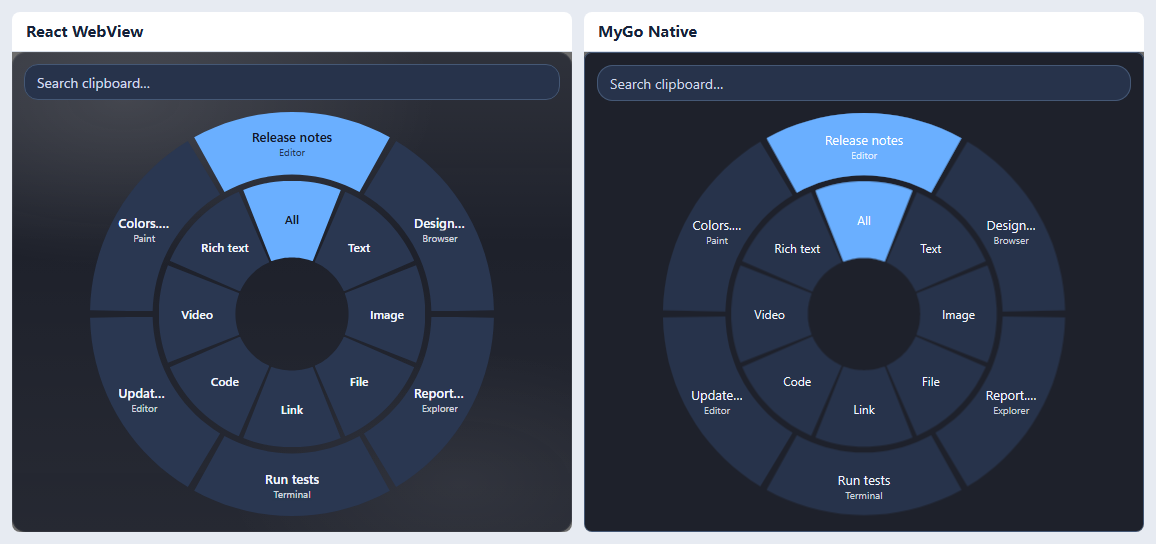
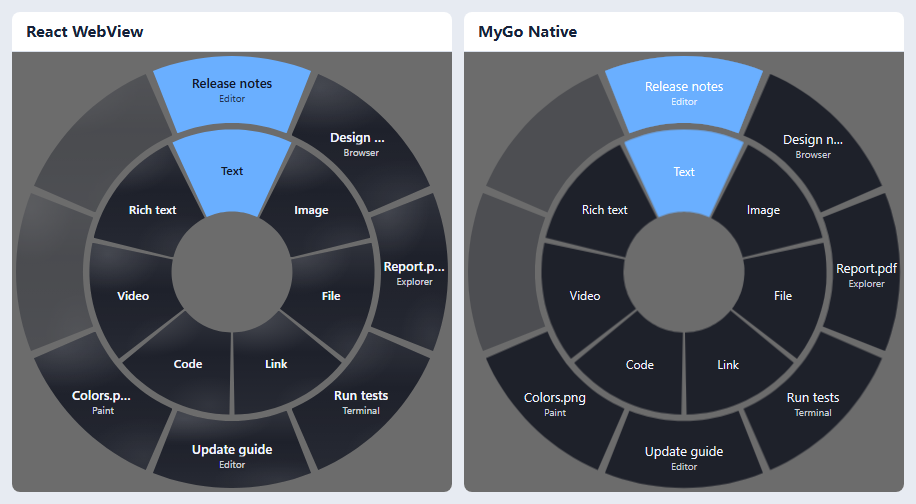
feat: render configurable quick paste rings without a panel

diff --git a/packages/ui-react/src/components/QuickPasteRings.tsx b/packages/ui-react/src/components/QuickPasteRings.tsx
@@ -1,7 +1,7 @@
 import { useLayoutEffect, useRef, useState } from "react";
 import "../styles/components/quick-paste-rings.css";
 
-export type QuickPasteDock = "left" | "right" | "";
+export type QuickPasteDock = "left" | "right" | "top" | "";
 
 interface RingItem {
     id: string | number;
@@ -19,18 +19,19 @@ interface QuickPasteRingsProps {
     entries: RingItem[];
     categoryLabel: string;
     entryLabel: string;
-    emptyLabel?: string;
+    entrySlots: number;
 }
 
 function ringSector(index: number, count: number, outer: boolean, dock: QuickPasteDock, width: number, height: number) {
-    const radius = Math.max(0, Math.min(height / 2 - 4, dock ? width - 8 : width / 2 - 4));
+    const horizontal = dock === "left" || dock === "right";
+    const radius = Math.max(0, Math.min(dock === "top" ? height - 4 : height / 2 - 4, horizontal ? width - 4 : width / 2 - 4));
     const cx = dock === "left" ? 0 : dock === "right" ? width : width / 2;
-    const cy = height / 2;
-    const direction = dock === "right" ? -1 : 1;
+    const cy = dock === "top" ? 0 : height / 2;
+    const direction = dock === "right" || dock === "top" ? -1 : 1;
     const inner = radius * (outer ? .69 : .28);
     const edge = radius * (outer ? 1 : .66);
     const step = (dock ? Math.PI : 2 * Math.PI) / count;
-    const middle = -Math.PI / 2 + step * (index + (dock ? .5 : 0));
+    const middle = (dock === "top" ? 0 : -Math.PI / 2) + step * (index + (dock ? .5 : 0));
     const halfAngle = step / 2 - .018;
     const point = (r: number, angle: number) => ({
         x: cx + direction * r * Math.cos(angle),
@@ -67,7 +68,7 @@ function ringSector(index: number, count: number, outer: boolean, dock: QuickPas
     };
 }
 
-export function QuickPasteRings({ dock, categories, entries, categoryLabel, entryLabel, emptyLabel }: QuickPasteRingsProps) {
+export function QuickPasteRings({ dock, categories, entries, categoryLabel, entryLabel, entrySlots }: QuickPasteRingsProps) {
     const view = useRef<HTMLDivElement>(null);
     const [size, setSize] = useState({ width: 0, height: 0 });
     useLayoutEffect(() => {
@@ -100,8 +101,7 @@ export function QuickPasteRings({ dock, categories, entries, categoryLabel, entr
     return <div ref={view} className={"quick-paste-ring" + (dock ? " quick-paste-ring--" + dock : "")}>
         {size.width > 0 && size.height > 0 && <>
             <div role="group" aria-label={categoryLabel}>{renderRing(categories, categories.length, false)}</div>
-            <div role="group" aria-label={entryLabel}>{renderRing(entries, 6, true)}</div>
+            <div role="group" aria-label={entryLabel}>{renderRing(entries, entrySlots, true)}</div>
         </>}
-        {entries.length === 0 && emptyLabel && <span className="quick-paste-ring__empty">{emptyLabel}</span>}
     </div>;
 }

diff --git a/packages/ui-react/showcase/main.tsx b/packages/ui-react/showcase/main.tsx
@@ -441,19 +441,19 @@ function CharacterPanelFixture() {
 }
 
 function QuickPasteFixture() {
-  const [category, setCategory] = useState("All");
+  const [category, setCategory] = useState("Text");
   const [entry, setEntry] = useState("Release notes");
   const ring = fixture === "quick-paste-rings";
-  const dock = state === "left" || state === "right" ? state : "";
+  const dock = state === "left" || state === "right" || state === "top" ? state : "";
   const ringEntries = [
     ["Release notes", "Editor"], ["Design notes", "Browser"], ["Report.pdf", "Explorer"],
     ["Run tests", "Terminal"], ["Update guide", "Editor"], ["Colors.png", "Paint"],
   ];
   return <main data-fixture={fixture}>
-    <QuickPastePanel>
-      <QuickPasteSearch aria-label="Search clipboard" placeholder="Search clipboard…" />
-      {ring && <QuickPasteRings dock={dock} categoryLabel="Clipboard types" entryLabel="Clipboard entries"
-        categories={["All", "Text", "Image", "File", "Link", "Code", "Video", "Rich text"]
+    <QuickPastePanel className={ring ? "quick-paste-window--rings" : undefined}>
+      {!ring && <QuickPasteSearch aria-label="Search clipboard" placeholder="Search clipboard…" />}
+      {ring && <QuickPasteRings dock={dock} entrySlots={dock ? 5 : 8} categoryLabel="Clipboard types" entryLabel="Clipboard entries"
+        categories={["Text", "Image", "File", "Link", "Code", "Video", "Rich text"]
           .map(label => ({ id: label, label, compactLabel: ({ Image: "Img", Video: "Vid", "Rich text": "Rich" } as Record<string, string>)[label],
             active: label === category, onSelect: () => setCategory(label) }))}
         entries={ringEntries.map(([label, detail]) => ({ id: label, label, detail, active: label === entry,

diff --git a/packages/ui-react/src/styles/components/quick-paste-rings.css b/packages/ui-react/src/styles/components/quick-paste-rings.css
@@ -12,12 +12,12 @@
     border-radius: 0;
     padding: 0;
     color: var(--dc-text-primary);
-    background: var(--dc-surface-raised);
+    background: var(--floating-texture), var(--floating-fill);
     font: 600 13px var(--dc-font-ui);
 }
 
 .quick-paste-ring__empty-sector {
-    background: color-mix(in srgb, var(--dc-surface-raised) 45%, transparent);
+    opacity: .42;
     pointer-events: none;
 }
 
@@ -56,22 +56,8 @@
 }
 
 .quick-paste-ring button.quick-paste-ring__category { font-size: 12px; }
-.quick-paste-ring:is(.quick-paste-ring--left, .quick-paste-ring--right) .quick-paste-ring__category { font-size: 10px; }
+.quick-paste-ring:is(.quick-paste-ring--left, .quick-paste-ring--right, .quick-paste-ring--top) .quick-paste-ring__category { font-size: 10px; }
 .quick-paste-ring__label small { opacity: .82; font-size: 10px; font-weight: 400; }
-
-.quick-paste-ring__empty {
-    position: absolute;
-    left: 50%;
-    top: 50%;
-    max-width: 96px;
-    transform: translate(-50%, -50%);
-    color: var(--dc-text-secondary);
-    text-align: center;
-    font-size: 11px;
-    pointer-events: none;
-}
-.quick-paste-ring--left .quick-paste-ring__empty { left: 0; width: 48px; transform: translateY(-50%); }
-.quick-paste-ring--right .quick-paste-ring__empty { left: auto; right: 0; width: 48px; transform: translateY(-50%); }
 
 @media (prefers-reduced-motion: reduce) {
     .quick-paste-ring button { transition: none; }

diff --git a/packages/ui-react/src/styles/components/QuickPasteWindow.css b/packages/ui-react/src/styles/components/QuickPasteWindow.css
@@ -47,6 +47,14 @@ html body.quick-paste #root:has(.quick-paste-window)::before {
   box-sizing: border-box;
 }
 
+.quick-paste-window--rings {
+  --quick-paste-panel-radius: 0px;
+  padding: 0;
+  gap: 0;
+  background: none;
+  box-shadow: none;
+}
+
 /* ── Search ─────────────────────────────────────────────────── */
 
 .quick-paste-window__search-input {

diff --git a/packages/ui-react/src/styles/components/floating-shell.css b/packages/ui-react/src/styles/components/floating-shell.css
@@ -13,7 +13,7 @@
 }
 
 @supports (opacity: pow(.5, 2)) {
-    :root.windows-11 :is(.theme-mica, .theme-acrylic) :is(.quick-paste-window, .compact-preview-window) {
+    :root.windows-11 :is(.theme-mica, .theme-acrylic) :is(.quick-paste-window:not(.quick-paste-window--rings), .compact-preview-window) {
         --floating-fill: rgb(var(--surface-shell-rgb) / pow(var(--floating-opacity), var(--system-backdrop-tint-power)));
     }
 }

diff --git a/packages/ui-native/uikit/quick_paste_rings.go b/packages/ui-native/uikit/quick_paste_rings.go
@@ -22,7 +22,7 @@ type quickPasteSector struct {
 
 // QuickPasteRings draws an inner category ring and six outer entry sectors.
 // At either edge, the same controls occupy an inward-facing half circle.
-func (k Kit) QuickPasteRings(c *ui.Context, dock string, categories, entries []QuickPasteRingItem) {
+func (k Kit) QuickPasteRings(c *ui.Context, dock string, slots int, tint ui.Color, categories, entries []QuickPasteRingItem) {
 	ring := ui.Box(c).FillWidth().Grow(1).MinHeight(0).Clip()
 	size := ring.Bounds()
 	ring.Draw(func(_ *ui.Painter, bounds ui.Rect) {
@@ -34,12 +34,12 @@ func (k Kit) QuickPasteRings(c *ui.Context, dock string, categories, entries []Q
 		return
 	}
 	ring.Children(func() {
-		k.quickPasteRing(c, dock, size, categories, len(categories), false)
-		k.quickPasteRing(c, dock, size, entries, 6, true)
+		k.quickPasteRing(c, dock, size, tint, categories, len(categories), false)
+		k.quickPasteRing(c, dock, size, tint, entries, slots, true)
 	})
 }
 
-func (k Kit) quickPasteRing(c *ui.Context, dock string, size ui.Rect, items []QuickPasteRingItem, count int, outer bool) {
+func (k Kit) quickPasteRing(c *ui.Context, dock string, size ui.Rect, tint ui.Color, items []QuickPasteRingItem, count int, outer bool) {
 	palette := c.Theme()
 	for index := range count {
 		sector := makeQuickPasteSector(index, count, outer, dock, size.W, size.H)
@@ -47,7 +47,7 @@ func (k Kit) quickPasteRing(c *ui.Context, dock string, size ui.Rect, items []Qu
 		if index >= len(items) {
 			ui.Box(c.Key(index)).Absolute().Left(bounds.X).Top(bounds.Y).Size(bounds.W, bounds.H).
 				PassThrough().Draw(func(p *ui.Painter, rect ui.Rect) {
-				drawQuickPasteSector(p, rect, sector, palette.Surface.Alpha(.45))
+				drawQuickPasteSector(p, rect, sector, tint.Alpha(float32(tint.A)*.42/255))
 			})
 			continue
 		}
@@ -62,7 +62,7 @@ func (k Kit) quickPasteRing(c *ui.Context, dock string, size ui.Rect, items []Qu
 			HitTest(func(x, y float32, rect ui.Rect) bool {
 				return sector.path.Contains(x-rect.X, y-rect.Y)
 			})
-		fill, text := palette.Surface, palette.Text
+		fill, text := tint, palette.Text
 		if item.Active {
 			fill, text = palette.Accent, palette.AccentText
 		} else if button.Hovered() || button.Focused() {
@@ -108,8 +108,12 @@ func drawQuickPasteSector(p *ui.Painter, rect ui.Rect, sector quickPasteSector, 
 func makeQuickPasteSector(index, count int, outer bool, dock string, width, height float32) quickPasteSector {
 	radius := max(0, min(float64(height)/2-4, float64(width)/2-4))
 	cx, cy := float64(width)/2, float64(height)/2
-	direction, span, offset := 1.0, 2*math.Pi, 0.0
-	if dock != "" {
+	direction, span, offset, start := 1.0, 2*math.Pi, 0.0, -math.Pi/2
+	switch dock {
+	case "top":
+		radius = max(0, min(float64(height)-4, float64(width)/2-4))
+		cy, direction, span, offset, start = 0, -1, math.Pi, .5, 0
+	case "left", "right":
 		radius = max(0, min(float64(height)/2-4, float64(width)-8))
 		cx, span, offset = 0, math.Pi, .5
 		if dock == "right" {
@@ -123,7 +127,7 @@ func makeQuickPasteSector(index, count int, outer bool, dock string, width, heig
 		halfWidth, halfHeight = 54, 12
 	}
 	step := span / float64(count)
-	middle := -math.Pi/2 + step*(float64(index)+offset)
+	middle := start + step*(float64(index)+offset)
 	halfAngle := step/2 - .018
 	point := func(r, angle float64) ui.Point {
 		return ui.Point{X: float32(cx + direction*r*math.Cos(angle)), Y: float32(cy + r*math.Sin(angle))}

diff --git a/packages/ui-presets/cmd/dzc-ui-gallery/quick_paste_fixture.go b/packages/ui-presets/cmd/dzc-ui-gallery/quick_paste_fixture.go
@@ -18,12 +18,12 @@ func (g *gallery) quickPasteFixture(c *ui.Context, preset presets.Preset) {
 	palette := *c.Theme()
 	palette.Background = ui.Hex("#6c6c6c")
 	c.SetTheme(&palette)
+	if g.fixture == "quick-paste-rings" {
+		g.quickPasteRingFixture(c, kit, preset.WindowBackground(94))
+		return
+	}
 	kit.QuickPastePanel(c, preset.WindowBackground(100).Alpha(float32(opacity)/100)).Children(func() {
 		kit.QuickPasteSearch(c, &g.query, "Search clipboard…")
-		if g.fixture == "quick-paste-rings" {
-			g.quickPasteRingFixture(c, kit)
-			return
-		}
 		ui.Column(c).FillWidth().Children(func() {
 			kit.QuickPasteRow(c, "Release checklist", "Editor", true)
 			kit.QuickPasteRow(c, "Design notes", "Browser", false)
@@ -32,14 +32,13 @@ func (g *gallery) quickPasteFixture(c *ui.Context, preset presets.Preset) {
 	})
 }
 
-func (g *gallery) quickPasteRingFixture(c *ui.Context, kit uikit.Kit) {
+func (g *gallery) quickPasteRingFixture(c *ui.Context, kit uikit.Kit, tint ui.Color) {
 	dock := g.state
 	if dock == "full" {
 		dock = ""
 	}
 	categories := []uikit.QuickPasteRingItem{
-		{Key: "all", Label: "All", Active: true},
-		{Key: "text", Label: "Text"},
+		{Key: "text", Label: "Text", Active: true},
 		{Key: "image", Label: "Image", CompactLabel: "Img"},
 		{Key: "file", Label: "File"},
 		{Key: "link", Label: "Link"},
@@ -55,5 +54,9 @@ func (g *gallery) quickPasteRingFixture(c *ui.Context, kit uikit.Kit) {
 		{Key: "update", Label: "Update guide", Detail: "Editor"},
 		{Key: "colors", Label: "Colors.png", Detail: "Paint"},
 	}
-	kit.QuickPasteRings(c, dock, categories, entries)
+	slots := 8
+	if dock != "" {
+		slots = 5
+	}
+	kit.QuickPasteRings(c, dock, slots, tint, categories, entries)
 }

diff --git a/packages/ui-presets/cmd/dzc-ui-gallery/main.go b/packages/ui-presets/cmd/dzc-ui-gallery/main.go
@@ -710,9 +710,11 @@ func run() error {
 	}
 	width, height := 560, 420
 	if g.fixture == "quick-paste-rings" {
-		height = 480
-		if g.state != "full" {
-			width = 260
+		width, height = 440, 440
+		if g.state == "top" {
+			height = 224
+		} else if g.state != "full" {
+			width = 224
 		}
 	}
 	if *output != "" {

diff --git a/README.md b/README.md
@@ -14,7 +14,7 @@
 ### React WebView
 
 ```sh
-pnpm add https://github.com/qiyuanhuakai/deziro-ui/releases/download/v0.4.0/deziro-ui-react-0.4.0.tgz
+pnpm add https://github.com/qiyuanhuakai/deziro-ui/releases/download/v0.4.1/deziro-ui-react-0.4.1.tgz
 ```
 
 ```tsx
@@ -33,7 +33,7 @@ document.body.classList.add("theme-macos", "light-mode");
 ### MyGo Native
 
 ```sh
-go get github.com/qiyuanhuakai/deziro-ui/packages/ui-native/uikit@v0.4.0
+go get github.com/qiyuanhuakai/deziro-ui/packages/ui-native/uikit@v0.4.1
 ```
 
 ```go
@@ -46,7 +46,7 @@ kit.Apply(c)
 使用自己的主题时，向 `uikit.NewKit` 传入语义颜色和控件样式。应用需要下方完整的 Web 对照主题时，可以额外导入 GPL 预设模块，并通过 `presets.Select("macos", "light").Kit()` 应用。
 
 ```sh
-go get github.com/qiyuanhuakai/deziro-ui/packages/ui-presets@v0.4.0
+go get github.com/qiyuanhuakai/deziro-ui/packages/ui-presets@v0.4.1
 ```
 
 ## 主题
@@ -57,7 +57,7 @@ go get github.com/qiyuanhuakai/deziro-ui/packages/ui-presets@v0.4.0
 
 每张图左侧是 React WebView，右侧是 MyGo Native。对照覆盖平白（FlatWhite）与 Liquid Glass 的浅色和深色。输入框使用带内容的示例，简洁卡片操作栏和右键菜单展示悬浮后的状态。
 
-剪贴板搜索与类型筛选图使用 DezirClip 主界面的同一组件。一个完整的输入框，下方是七种内容类型。可以单独复用 React 的 ClipboardSearch 或 Go 的 Kit.ClipboardSearch。高级搜索栏和搜索历史也提供独立示例。双环快贴的内环是内容类型，外环是待粘贴的条目。边缘贴靠使用朝屏幕内侧的半环。
+剪贴板搜索与类型筛选图使用 DezirClip 主界面的同一组件。一个完整的输入框，下方是七种内容类型。可以单独复用 React 的 ClipboardSearch 或 Go 的 Kit.ClipboardSearch。高级搜索栏和搜索历史也提供独立示例。双环快贴的内环是内容类型，外环是待粘贴的条目。双环直接显示在桌面上。适配左、右和顶部贴靠，展开的半环朝向屏幕内侧。
 
 <details open>
 <summary>平白（FlatWhite）深色</summary>
@@ -128,6 +128,7 @@ go get github.com/qiyuanhuakai/deziro-ui/packages/ui-presets@v0.4.0
 | 快速粘贴面板 | ![65% 透明度设置下的面板、搜索框与选中结果](docs/comparisons/macos-dark/quick-paste-panel.png) |
 | 快速粘贴双环 | ![完整双环 WebView 与 Native](docs/comparisons/macos-dark/quick-paste-rings.png) |
 | 快速粘贴贴边半环 | ![贴左侧的半环 WebView 与 Native](docs/comparisons/macos-dark/quick-paste-rings-docked.png) |
+| 快速粘贴顶部半环 | ![贴顶部的半环 WebView 与 Native](docs/comparisons/macos-dark/quick-paste-rings-top.png) |
 | 主题管理 | ![内置主题、已导入主题及导出和移除操作](docs/comparisons/macos-dark/theme-manager.png) |
 | 窄栏主题管理 | ![单列主题卡片与较长的导入主题名称](docs/comparisons/macos-dark/theme-manager-narrow.png) |
 | 自定义背景 | ![更换和清除背景、文件名与透明度](docs/comparisons/macos-dark/background-settings.png) |
@@ -256,6 +257,7 @@ go get github.com/qiyuanhuakai/deziro-ui/packages/ui-presets@v0.4.0
 | 快速粘贴面板 | ![65% 透明度设置下的面板、搜索框与选中结果](docs/comparisons/quick-paste-panel.png) |
 | 快速粘贴双环 | ![完整双环 WebView 与 Native](docs/comparisons/quick-paste-rings.png) |
 | 快速粘贴贴边半环 | ![贴左侧的半环 WebView 与 Native](docs/comparisons/quick-paste-rings-docked.png) |
+| 快速粘贴顶部半环 | ![贴顶部的半环 WebView 与 Native](docs/comparisons/quick-paste-rings-top.png) |
 | 主题管理 | ![内置主题、已导入主题及导出和移除操作](docs/comparisons/theme-manager.png) |
 | 窄栏主题管理 | ![单列主题卡片与较长的导入主题名称](docs/comparisons/theme-manager-narrow.png) |
 | 自定义背景 | ![更换和清除背景、文件名与透明度](docs/comparisons/background-settings.png) |
@@ -387,6 +389,7 @@ go get github.com/qiyuanhuakai/deziro-ui/packages/ui-presets@v0.4.0
 | 快速粘贴面板 | ![65% 透明度设置下的面板、搜索框与选中结果](docs/comparisons/liquid-glass-light/quick-paste-panel.png) |
 | 快速粘贴双环 | ![完整双环 WebView 与 Native](docs/comparisons/liquid-glass-light/quick-paste-rings.png) |
 | 快速粘贴贴边半环 | ![贴左侧的半环 WebView 与 Native](docs/comparisons/liquid-glass-light/quick-paste-rings-docked.png) |
+| 快速粘贴顶部半环 | ![贴顶部的半环 WebView 与 Native](docs/comparisons/liquid-glass-light/quick-paste-rings-top.png) |
 | 主题管理 | ![内置主题、已导入主题及导出和移除操作](docs/comparisons/liquid-glass-light/theme-manager.png) |
 | 窄栏主题管理 | ![单列主题卡片与较长的导入主题名称](docs/comparisons/liquid-glass-light/theme-manager-narrow.png) |
 | 自定义背景 | ![更换和清除背景、文件名与透明度](docs/comparisons/liquid-glass-light/background-settings.png) |
@@ -518,6 +521,7 @@ go get github.com/qiyuanhuakai/deziro-ui/packages/ui-presets@v0.4.0
 | 快速粘贴面板 | ![65% 透明度设置下的面板、搜索框与选中结果](docs/comparisons/liquid-glass-dark/quick-paste-panel.png) |
 | 快速粘贴双环 | ![完整双环 WebView 与 Native](docs/comparisons/liquid-glass-dark/quick-paste-rings.png) |
 | 快速粘贴贴边半环 | ![贴左侧的半环 WebView 与 Native](docs/comparisons/liquid-glass-dark/quick-paste-rings-docked.png) |
+| 快速粘贴顶部半环 | ![贴顶部的半环 WebView 与 Native](docs/comparisons/liquid-glass-dark/quick-paste-rings-top.png) |
 | 主题管理 | ![内置主题、已导入主题及导出和移除操作](docs/comparisons/liquid-glass-dark/theme-manager.png) |
 | 窄栏主题管理 | ![单列主题卡片与较长的导入主题名称](docs/comparisons/liquid-glass-dark/theme-manager-narrow.png) |
 | 自定义背景 | ![更换和清除背景、文件名与透明度](docs/comparisons/liquid-glass-dark/background-settings.png) |
